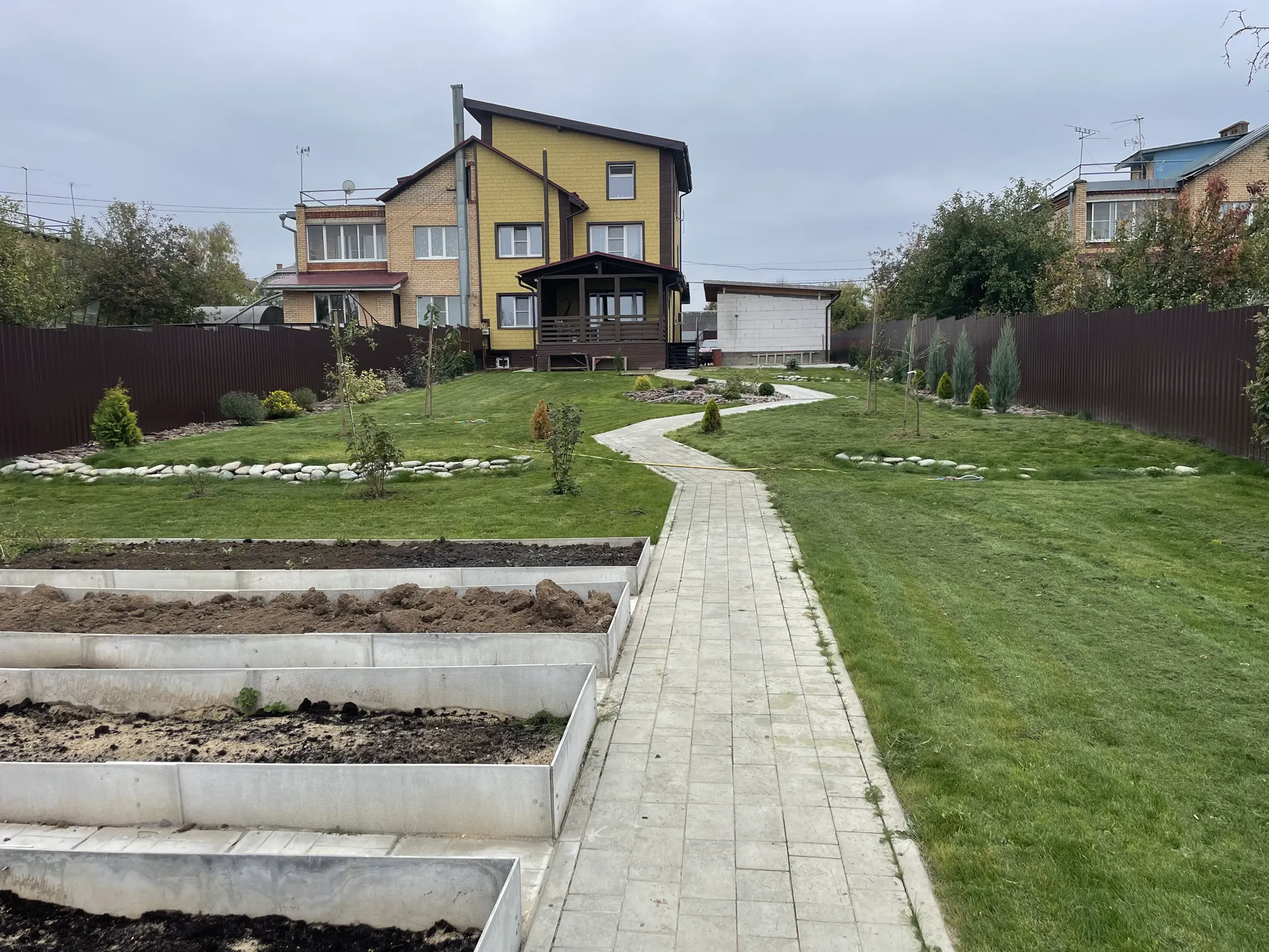
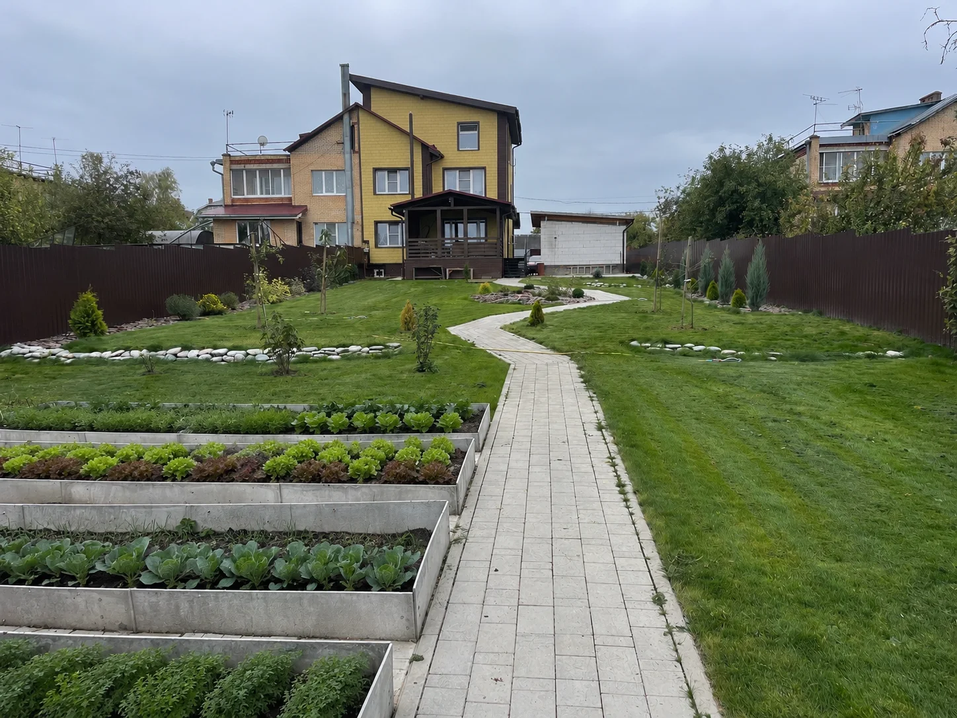
Use the backyard house photo uncropped on hero and gallery
Replace the main exterior frame with the new landscape shot and size
the hero to the photo so the garden and house stay fully visible.

diff --git a/src/components/Hero.tsx b/src/components/Hero.tsx
@@ -16,7 +16,7 @@ export function Hero() {
 
   return (
     <section className="hero" aria-label="Главный экран">
-      <div className="hero-media" aria-hidden={heroImage ? undefined : true}>
+      <div className="hero-media">
         {heroImage ? (
           <Photo
             src={heroImage.src}
@@ -33,35 +33,34 @@ export function Hero() {
           <div className="hero-fallback" />
         )}
         <div className="hero-overlay" />
-      </div>
-
-      <div className="container hero-content">
-        <p className="eyebrow">Продажа от собственника • Житнево</p>
-        <h1 className="hero-title">
-          Дом в Житнево — <span className="digits">{formatNumber(property.area)}</span>{" "}
-          м² на участке <span className="digits">{formatNumber(property.landArea)}</span>{" "}
-          соток
-        </h1>
-        <p className="hero-lead">
-          Просторный загородный дом после полной реконструкции 2021 года. Жить за
-          городом с комфортом городской квартиры, большим пространством и своей
-          территорией. Около 35 км от МКАД.
-        </p>
-        {property.price !== null ? (
-          <p className="hero-price">{formatPrice(property.price)}</p>
-        ) : null}
-        <div className="hero-owner">
-          <p>
-            {property.ownerName} — {property.ownerRole}
+        <div className="container hero-content">
+          <p className="eyebrow">Продажа от собственника • Житнево</p>
+          <h1 className="hero-title">
+            Дом в Житнево — <span className="digits">{formatNumber(property.area)}</span>{" "}
+            м² на участке <span className="digits">{formatNumber(property.landArea)}</span>{" "}
+            соток
+          </h1>
+          <p className="hero-lead">
+            Просторный загородный дом после полной реконструкции 2021 года. Жить за
+            городом с комфортом городской квартиры, большим пространством и своей
+            территорией. Около 35 км от МКАД.
           </p>
-          <PhoneLink className="hero-phone">{property.phone}</PhoneLink>
-        </div>
-        <CtaButtons />
-        <p className="hero-note">Продажа напрямую от собственника.</p>
-        <div className="hero-links">
-          <a href="#gallery">Посмотреть фотографии</a>
-          <a href="#specs">Посмотреть характеристики</a>
-          <a href="#location">Посмотреть расположение</a>
+          {property.price !== null ? (
+            <p className="hero-price">{formatPrice(property.price)}</p>
+          ) : null}
+          <div className="hero-owner">
+            <p>
+              {property.ownerName} — {property.ownerRole}
+            </p>
+            <PhoneLink className="hero-phone">{property.phone}</PhoneLink>
+          </div>
+          <CtaButtons />
+          <p className="hero-note">Продажа напрямую от собственника.</p>
+          <div className="hero-links">
+            <a href="#gallery">Посмотреть фотографии</a>
+            <a href="#specs">Посмотреть характеристики</a>
+            <a href="#location">Посмотреть расположение</a>
+          </div>
         </div>
       </div>
 

diff --git a/src/components/FinalCta.tsx b/src/components/FinalCta.tsx
@@ -25,22 +25,22 @@ export function FinalCta() {
           <div className="hero-fallback" />
         )}
         <div className="hero-overlay" />
-      </div>
-      <div className="container final-cta-content">
-        <p className="eyebrow light">Просмотр</p>
-        <h2>Лучше один раз увидеть</h2>
-        <p className="final-lead">
-          Масштаб комнат, веранду и участок лучше оценить на месте. Позвоните
-          Леониду и договоритесь о просмотре дома в Житнево.
-        </p>
-        <p className="owner-name light">
-          {property.ownerName} — {property.ownerRole}
-        </p>
-        <PhoneLink className="final-phone">{property.phone}</PhoneLink>
-        {property.price !== null ? (
-          <p className="final-price">{formatPrice(property.price)}</p>
-        ) : null}
-        <CtaButtons phoneLabel="Позвонить" whatsappLabel="WhatsApp" />
+        <div className="container final-cta-content">
+          <p className="eyebrow light">Просмотр</p>
+          <h2>Лучше один раз увидеть</h2>
+          <p className="final-lead">
+            Масштаб комнат, веранду и участок лучше оценить на месте. Позвоните
+            Леониду и договоритесь о просмотре дома в Житнево.
+          </p>
+          <p className="owner-name light">
+            {property.ownerName} — {property.ownerRole}
+          </p>
+          <PhoneLink className="final-phone">{property.phone}</PhoneLink>
+          {property.price !== null ? (
+            <p className="final-price">{formatPrice(property.price)}</p>
+          ) : null}
+          <CtaButtons phoneLabel="Позвонить" whatsappLabel="WhatsApp" />
+        </div>
       </div>
     </section>
   );

diff --git a/src/app/globals.css b/src/app/globals.css
@@ -322,24 +322,27 @@ button {
 
 .hero {
   position: relative;
-  min-height: calc(100svh - var(--header-h));
+  min-height: 0;
   display: flex;
   flex-direction: column;
-  justify-content: flex-end;
+  justify-content: flex-start;
   color: var(--color-milk);
   background: var(--color-hero);
 }
 
 .hero-media,
 .final-cta-media {
-  position: absolute;
-  inset: 0;
+  position: relative;
+  width: 100%;
+  aspect-ratio: 1448 / 1086;
+  background: var(--color-hero);
 }
 
 .hero-image,
 .final-cta-image,
 .hero-fallback {
-  object-fit: cover;
+  object-fit: contain;
+  object-position: center;
 }
 
 .hero-fallback {
@@ -362,8 +365,12 @@ button {
 }
 
 .hero-content {
-  position: relative;
+  position: absolute;
+  left: 0;
+  right: 0;
+  bottom: 0;
   z-index: 1;
+  margin-inline: auto;
   padding: var(--space-8) 0 var(--space-6);
 }
 
@@ -720,16 +727,18 @@ button {
 
 .final-cta {
   position: relative;
-  min-height: 72vh;
-  display: grid;
-  align-items: end;
+  min-height: 0;
   color: var(--color-milk);
   background: var(--color-hero);
 }
 
 .final-cta-content {
-  position: relative;
+  position: absolute;
+  left: 0;
+  right: 0;
+  bottom: 0;
   z-index: 1;
+  margin-inline: auto;
   padding: var(--space-8) 0;
 }
 

diff --git a/src/config/property.ts b/src/config/property.ts
@@ -116,11 +116,11 @@ export const property = {
     {
       id: "exterior-01",
       src: "/images/house/house-exterior-01.webp",
-      alt: "Дом в Житнево со стороны участка, Домодедовский городской округ",
+      alt: "Дом в Житнево со стороны участка, грядки и сад",
       category: "exterior",
       categoryLabel: "Вид дома",
-      width: 1920,
-      height: 1440,
+      width: 1448,
+      height: 1086,
       available: true,
     },
     {
